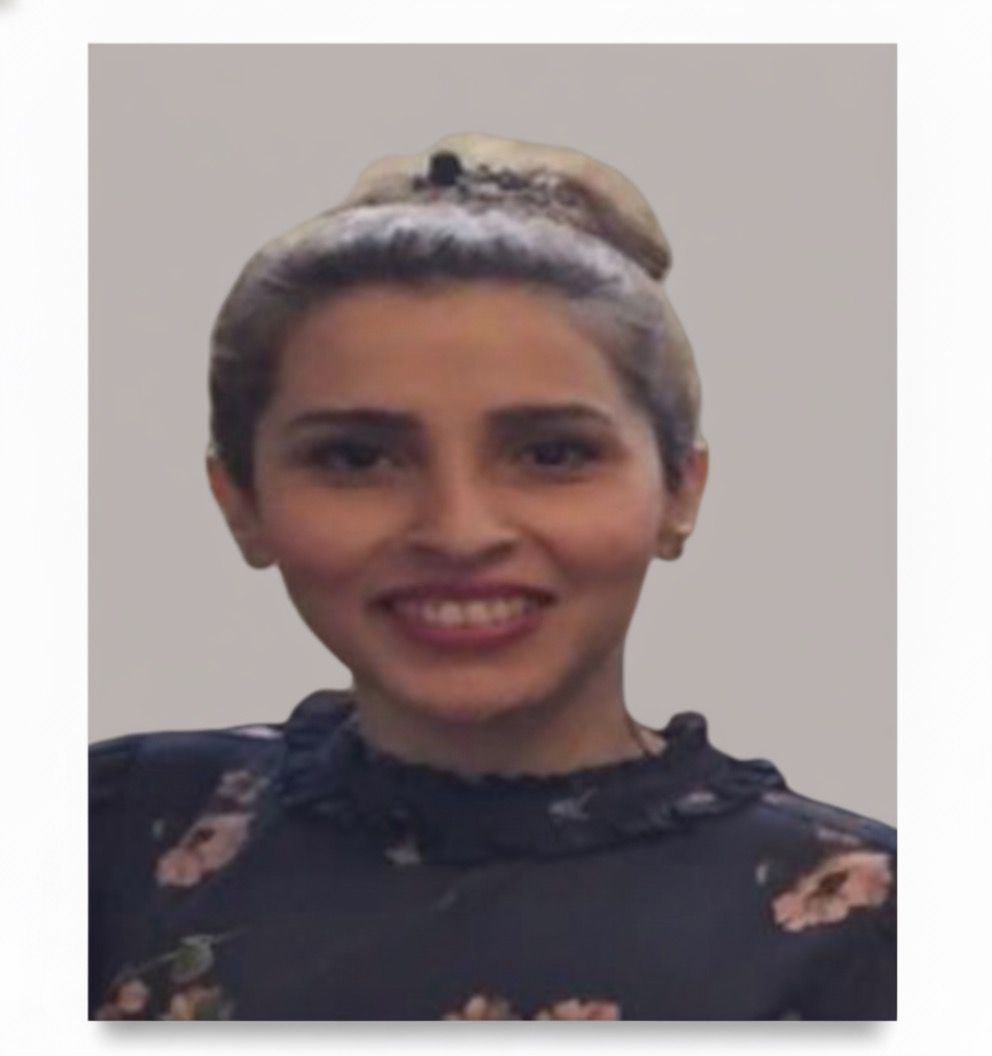
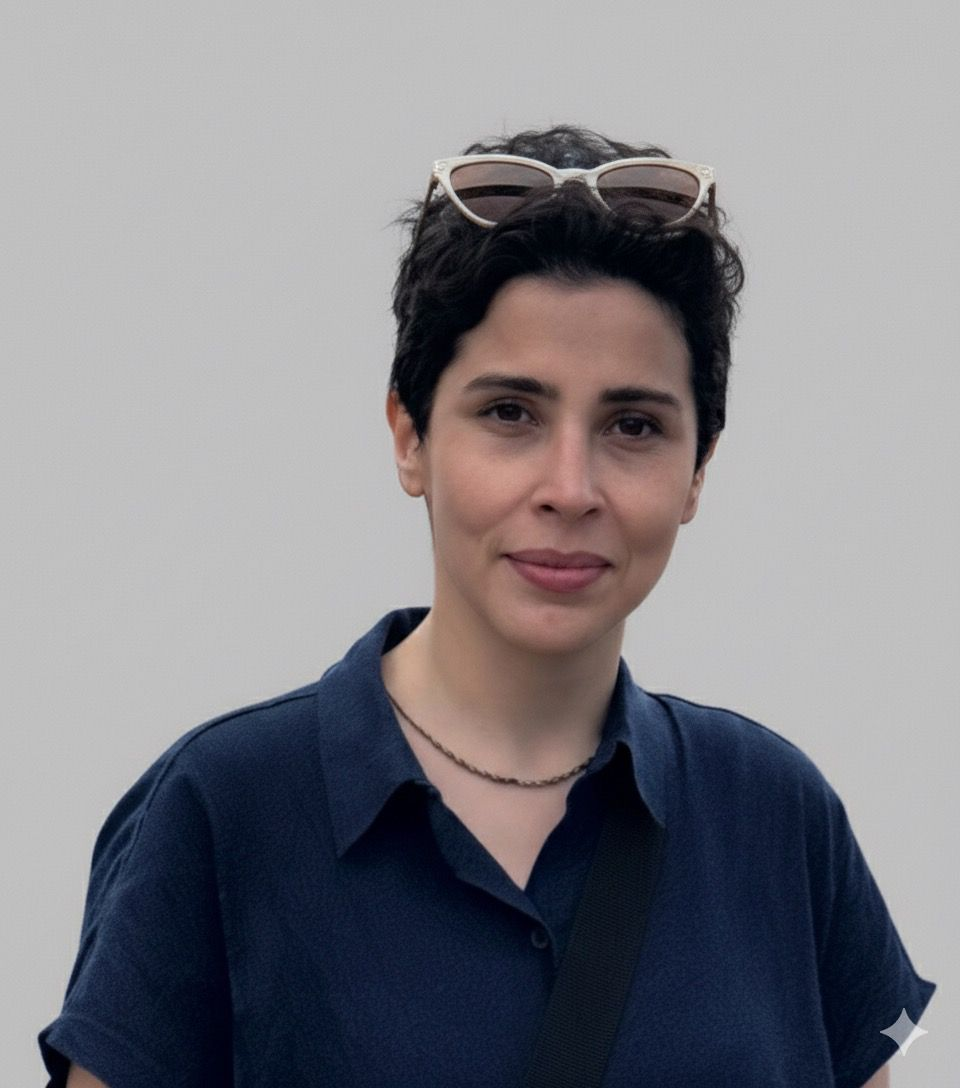
update

diff --git a/components/Footer/Footer.tsx b/components/Footer/Footer.tsx
@@ -59,6 +59,11 @@ export default function Footer() {
                 </Link>
               </li>
               <li>
+                <Link href="/team" className="text-gray-300 hover:text-white transition-colors text-sm">
+                  Our Team
+                </Link>
+              </li>
+              <li>
                 <Link href="/contact" className="text-gray-300 hover:text-white transition-colors text-sm">
                   Contact
                 </Link>
